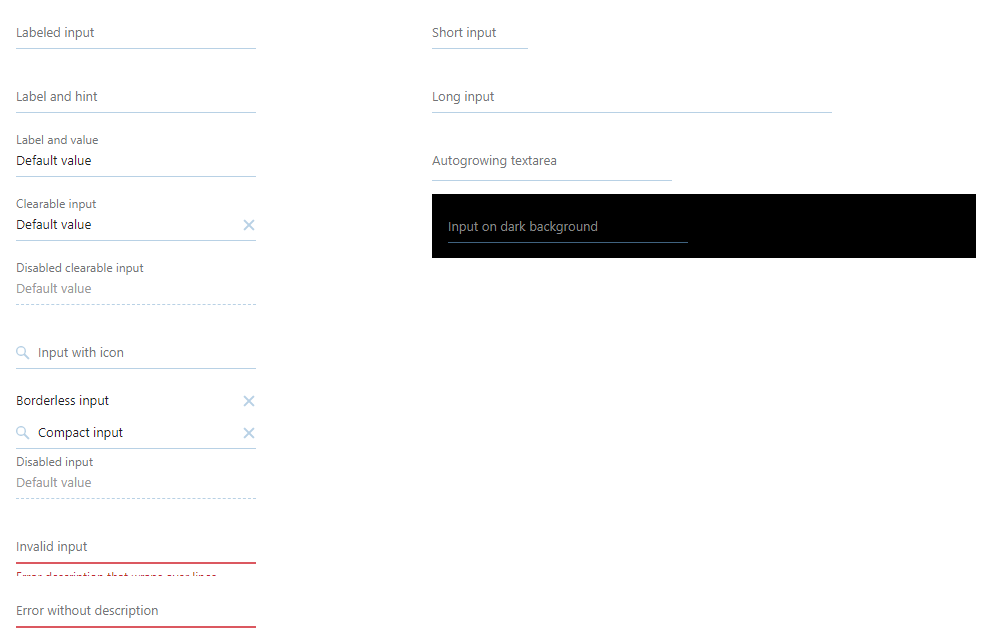
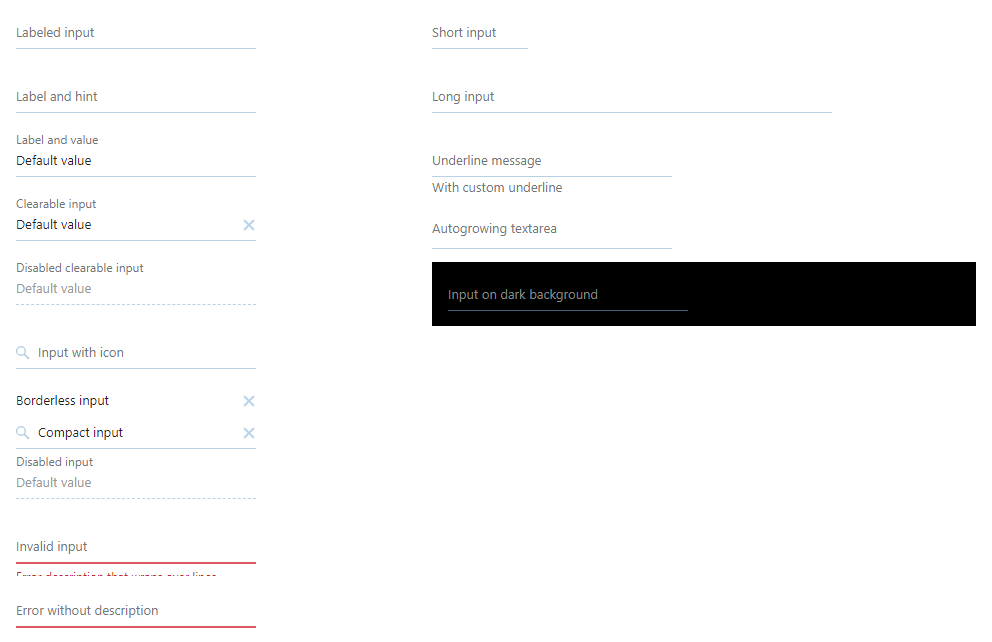
Support custom underline message for Input component

Changed region(s): [[0.4375, 0.2181, 1.0, 0.5296]]

diff --git a/components/input/input.js b/components/input/input.js
@@ -52,14 +52,22 @@ export class Input extends PureComponent {
     disabled: PropTypes.bool,
     id: PropTypes.string,
     placeholder: PropTypes.string,
-    icon: PropTypes.oneOfType([PropTypes.string, PropTypes.elementType])
+    icon: PropTypes.oneOfType([PropTypes.string, PropTypes.elementType]),
+
+    renderUnderline: PropTypes.func
   };
 
   static defaultProps = {
     size: Size.M,
     onChange: noop,
     inputRef: noop,
-    enableShortcuts: false
+    enableShortcuts: false,
+    renderUnderline: (underlineRef, errorText) => (
+      <div
+        className={styles.errorText}
+        ref={underlineRef}
+      >{errorText}</div>
+    )
   };
 
   state = {
@@ -90,7 +98,7 @@ export class Input extends PureComponent {
   }
 
   stretch(el) {
-    if (!el) {
+    if (!el || !el.style) {
       return;
     }
     el.style.height = `${el.scrollHeight}px`;
@@ -98,11 +106,11 @@ export class Input extends PureComponent {
 
   adapt() {
     this.checkValue();
-    this.stretch(this.error);
+    this.stretch(this.underlineNode);
   }
 
-  errorRef = el => {
-    this.error = el;
+  underlineRef = el => {
+    this.underlineNode = el;
   };
 
   inputRef = el => {
@@ -149,6 +157,7 @@ export class Input extends PureComponent {
       id,
       placeholder,
       icon,
+      renderUnderline,
       ...restProps
     } = this.props;
     const minimizeMargins = compact || borderless;
@@ -209,12 +218,7 @@ export class Input extends PureComponent {
         {!borderless && <div className={styles.underline}/>}
         {!borderless && <div className={styles.focusUnderline}/>}
         {!minimizeMargins && <div className={styles.errorUnderline}/>}
-        {!minimizeMargins && (
-          <div
-            className={styles.errorText}
-            ref={this.errorRef}
-          >{error}</div>
-        )}
+        {!minimizeMargins && renderUnderline(this.underlineRef, error)}
       </div>
     );
   }

diff --git a/components/input/input.examples.js b/components/input/input.examples.js
@@ -4,6 +4,7 @@ import searchIcon from '@jetbrains/icons/search.svg';
 import reactDecorator from '../../.storybook/react-decorator';
 
 import Button from '@jetbrains/ring-ui/components/button/button';
+import Text from '@jetbrains/ring-ui/components/text/text';
 
 import Input, {Size, Theme} from '@jetbrains/ring-ui/components/input/input';
 
@@ -70,6 +71,10 @@ export const basic = () => {
       <Input label="Error without description" error=""/>
       <Input label="Short input" size={Size.S}/>
       <Input label="Long input" size={Size.L}/>
+      <Input
+        label="Underline message"
+        renderUnderline={() => <Text info>With custom underline</Text>}
+      />
       <Input label="Autogrowing textarea" multiline/>
       <div className="dark">
         <Input
